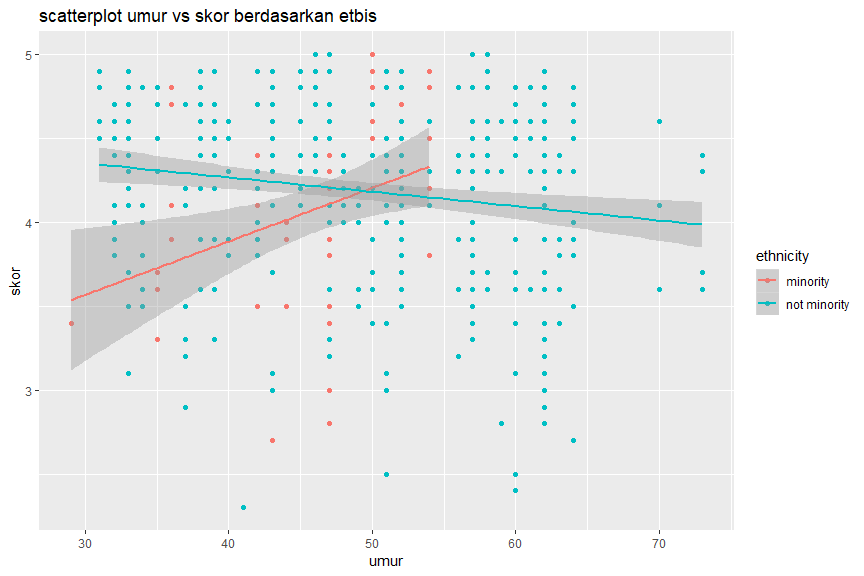
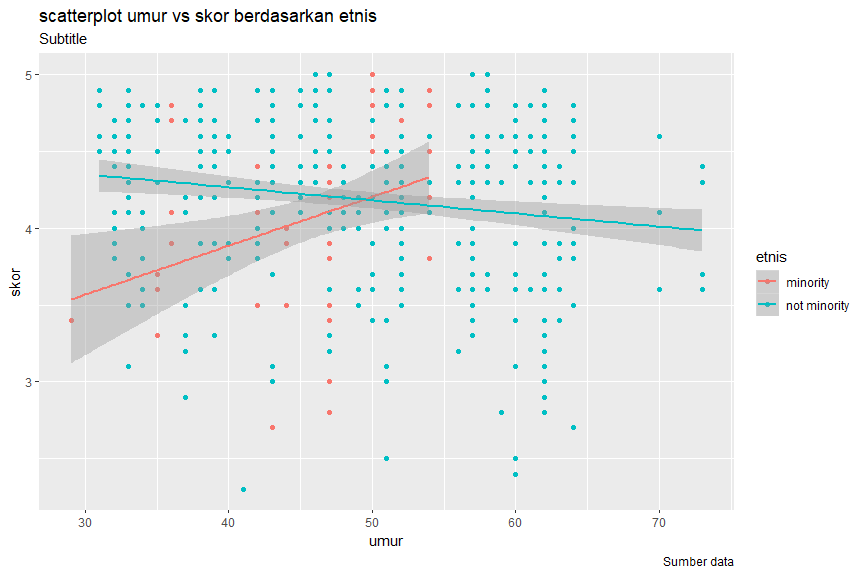
modify 004_visualisasi.Rmd

diff --git a/vignettes/004_visualisasi.html b/vignettes/004_visualisasi.html
@@ -1659,9 +1659,12 @@ div.tocify {
   labs(
     x = &quot;umur&quot;,
     y = &quot;skor&quot;,
-    title = &quot;scatterplot umur vs skor berdasarkan etbis&quot;
+    title = &quot;scatterplot umur vs skor berdasarkan etnis&quot;,
+    subtitle = &quot;Subtitle&quot;,
+    caption = &quot;Sumber data&quot;,
+    color = &quot;etnis&quot;
   )</code></pre>
[2 lines of base64/hex data omitted]
 
 
 

diff --git a/vignettes/004_visualisasi.md b/vignettes/004_visualisasi.md
@@ -170,7 +170,10 @@ ggplot(data = evals, aes(x = age, y = score, colour = ethnicity)) +
   labs(
     x = "umur",
     y = "skor",
-    title = "scatterplot umur vs skor berdasarkan etbis"
+    title = "scatterplot umur vs skor berdasarkan etnis",
+    subtitle = "Subtitle",
+    caption = "Sumber data",
+    color = "etnis"
   )
 ```
 
